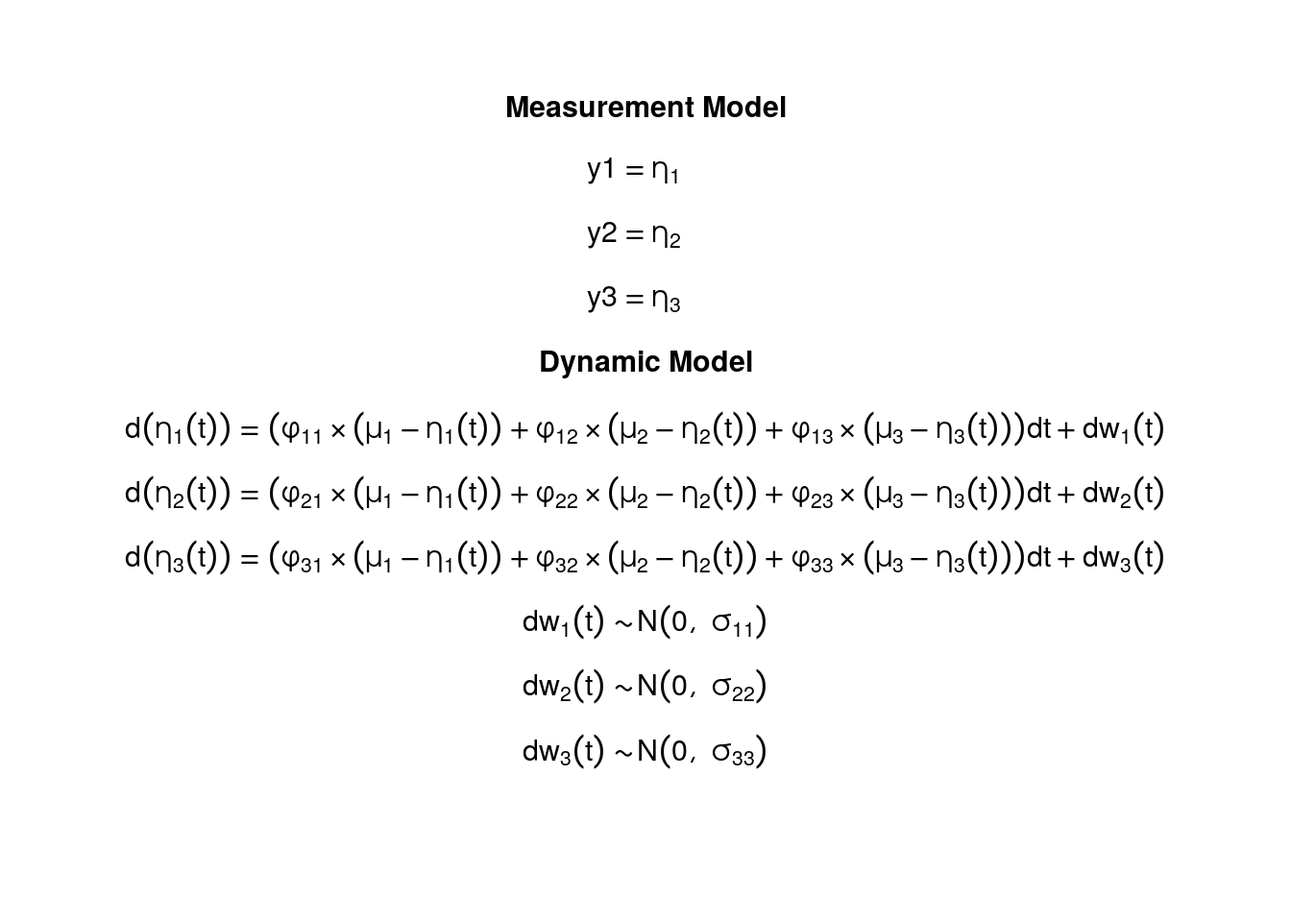
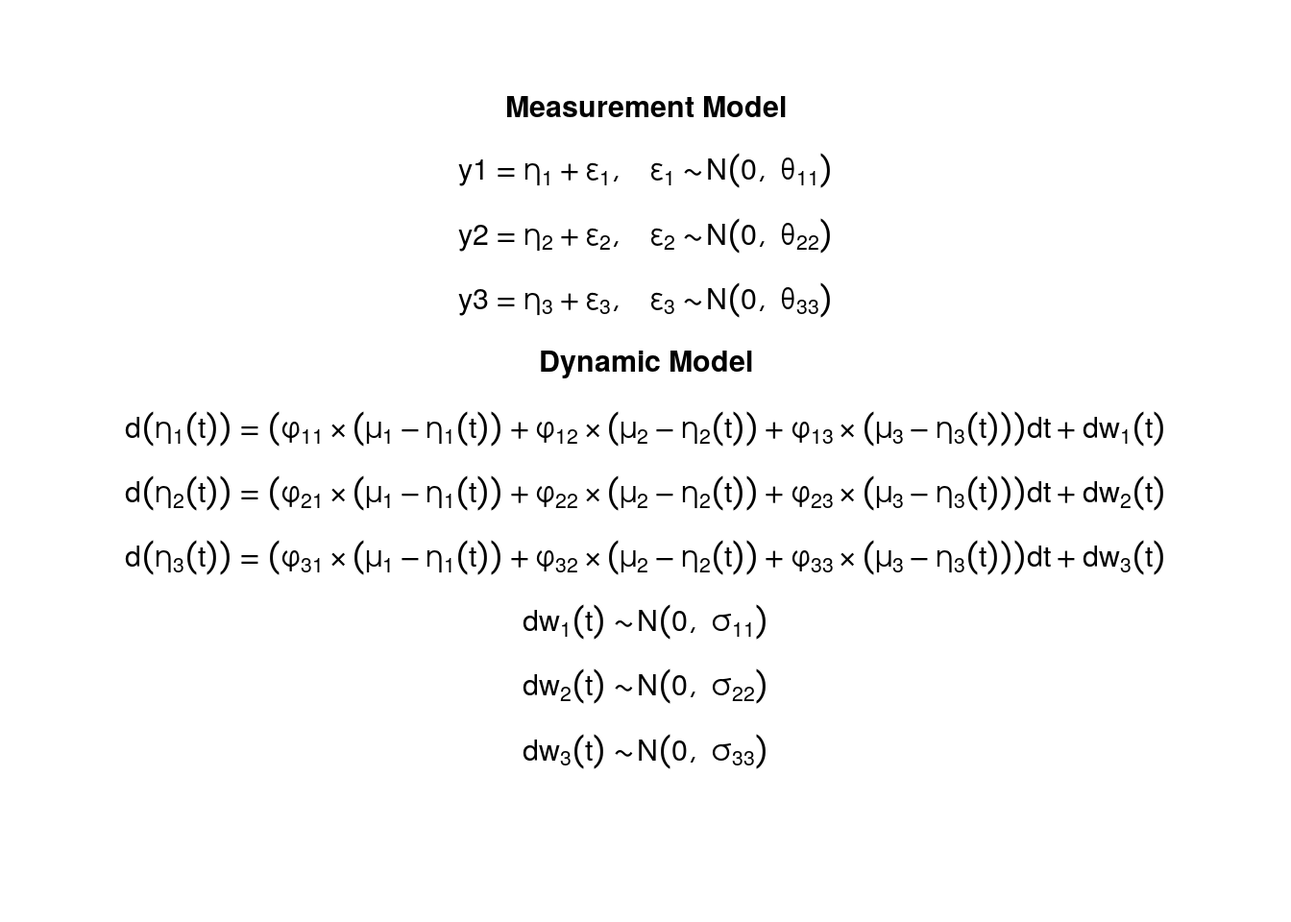
Deploying to quarto from @ jeksterslab/dynr-wiki@334fa9eb3922edf96c56c5e4832cf3fb31539dfa 🚀

diff --git a/.setup/quarto/examples/ou.html b/.setup/quarto/examples/ou.html
@@ -318,7 +318,7 @@ pre > code.sourceCode > span > a:first-child::before { text-decoration: underlin
   \mathrm{d}
   \mathbf{W}_{i, t}
 \end{equation}\]</span></p>
-<p>where is the long-term mean or equilibrium level, is the rate of mean reversion, determining how quickly the variable returns to its mean, is the matrix of volatility or randomness in the process, and is a Wiener process or Brownian motion, which represents random fluctuations.</p>
+<p>where <span class="math inline">\(\boldsymbol{\mu}\)</span> is the long-term mean or equilibrium level, <span class="math inline">\(\boldsymbol{\Phi}\)</span> is the rate of mean reversion, determining how quickly the variable returns to its mean, <span class="math inline">\(\boldsymbol{\Sigma}\)</span> is the matrix of volatility or randomness in the process, and <span class="math inline">\(\mathrm{d}\boldsymbol{W}\)</span> is a Wiener process or Brownian motion, which represents random fluctuations.</p>
 </section>
 <section id="data-generation" class="level2">
 <h2 class="anchored" data-anchor-id="data-generation">Data Generation</h2>
@@ -529,7 +529,7 @@ pre > code.sourceCode > span > a:first-child::before { text-decoration: underlin
 <h3 class="anchored" data-anchor-id="prepare-data">Prepare Data</h3>
 <div class="cell">
 <div class="sourceCode cell-code" id="cb26"><pre class="sourceCode r code-with-copy"><code class="sourceCode r"><span id="cb26-1"><a href="#cb26-1" aria-hidden="true" tabindex="-1"></a>dynr_data <span class="ot">&lt;-</span> dynr<span class="sc">::</span><span class="fu">dynr.data</span>(</span>
-<span id="cb26-2"><a href="#cb26-2" aria-hidden="true" tabindex="-1"></a>  <span class="at">data =</span> data,</span>
+<span id="cb26-2"><a href="#cb26-2" aria-hidden="true" tabindex="-1"></a>  <span class="at">dataframe =</span> data,</span>
 <span id="cb26-3"><a href="#cb26-3" aria-hidden="true" tabindex="-1"></a>  <span class="at">id =</span> <span class="st">"id"</span>,</span>
 <span id="cb26-4"><a href="#cb26-4" aria-hidden="true" tabindex="-1"></a>  <span class="at">time =</span> <span class="st">"time"</span>,</span>
 <span id="cb26-5"><a href="#cb26-5" aria-hidden="true" tabindex="-1"></a>  <span class="at">observed =</span> <span class="fu">c</span>(<span class="st">"y1"</span>, <span class="st">"y2"</span>, <span class="st">"y3"</span>)</span>
@@ -598,8 +598,15 @@ pre > code.sourceCode > span > a:first-child::before { text-decoration: underlin
 <span id="cb30-9"><a href="#cb30-9" aria-hidden="true" tabindex="-1"></a>    <span class="at">nrow =</span> <span class="dv">3</span></span>
 <span id="cb30-10"><a href="#cb30-10" aria-hidden="true" tabindex="-1"></a>  ),</span>
 <span id="cb30-11"><a href="#cb30-11" aria-hidden="true" tabindex="-1"></a>  <span class="at">values.observed =</span> <span class="fu">matrix</span>(<span class="at">data =</span> <span class="dv">0</span>, <span class="at">nrow =</span> <span class="dv">3</span>, <span class="at">ncol =</span> <span class="dv">3</span>),</span>
-<span id="cb30-12"><a href="#cb30-12" aria-hidden="true" tabindex="-1"></a>  <span class="at">params.observed =</span> <span class="fu">matrix</span>(<span class="at">data =</span> <span class="st">"fixed"</span>, <span class="at">nrow =</span> <span class="dv">3</span>, <span class="at">ncol =</span> <span class="dv">3</span>)</span>
-<span id="cb30-13"><a href="#cb30-13" aria-hidden="true" tabindex="-1"></a>)</span></code><button title="Copy to Clipboard" class="code-copy-button"><i class="bi"></i></button></pre></div>
+<span id="cb30-12"><a href="#cb30-12" aria-hidden="true" tabindex="-1"></a>  <span class="at">params.observed =</span> <span class="fu">matrix</span>(</span>
+<span id="cb30-13"><a href="#cb30-13" aria-hidden="true" tabindex="-1"></a>    <span class="at">data =</span> <span class="fu">c</span>(</span>
+<span id="cb30-14"><a href="#cb30-14" aria-hidden="true" tabindex="-1"></a>      <span class="st">"theta_11"</span>, <span class="st">"fixed"</span>, <span class="st">"fixed"</span>,</span>
+<span id="cb30-15"><a href="#cb30-15" aria-hidden="true" tabindex="-1"></a>      <span class="st">"fixed"</span>, <span class="st">"theta_22"</span>, <span class="st">"fixed"</span>,</span>
+<span id="cb30-16"><a href="#cb30-16" aria-hidden="true" tabindex="-1"></a>      <span class="st">"fixed"</span>, <span class="st">"fixed"</span>, <span class="st">"theta_33"</span></span>
+<span id="cb30-17"><a href="#cb30-17" aria-hidden="true" tabindex="-1"></a>    ),</span>
+<span id="cb30-18"><a href="#cb30-18" aria-hidden="true" tabindex="-1"></a>    <span class="at">nrow =</span> <span class="dv">3</span></span>
+<span id="cb30-19"><a href="#cb30-19" aria-hidden="true" tabindex="-1"></a>  )</span>
+<span id="cb30-20"><a href="#cb30-20" aria-hidden="true" tabindex="-1"></a>)</span></code><button title="Copy to Clipboard" class="code-copy-button"><i class="bi"></i></button></pre></div>
 </div>
 </section>
 <section id="prepare-the-model" class="level3">
@@ -643,141 +650,155 @@ Finished Hessian calculation.
 Original exit flag:  3 
 Modified exit flag:  3 
 Optimization terminated successfully: ftol_rel or ftol_abs was reached. 
-Original fitted parameters:  0.07403584 0.1766053 0.1539797 0.3697301 
-0.05704016 -0.0297579 -0.7256671 0.4783273 -0.01241398 0.4950523 -0.6934101 
-0.6879008 0.00734975 -0.01322196 -0.007848091 0.0117996 -0.009041597 
--0.01200113 2.691348e-05 0.01718063 0.4050353 -0.09542131 0.06062524 -0.3157057 
-0.4291277 -0.2853533 0.001404964 
+Original fitted parameters:  0.07406935 0.1766647 0.1540598 0.3697622 
+0.05704875 -0.02973953 -0.725679 0.4783426 -0.01241863 0.4950636 -0.6934217 
+0.6879196 0.007353297 -0.01321261 -0.007849696 0.01180588 -0.009041079 
+-0.01200767 -13.81608 -13.81762 -13.81537 -0.0001504583 0.0176176 0.4049574 
+-0.09485694 0.05996569 -0.3155364 0.4291837 -0.2852187 0.002375772 
 
-Transformed fitted parameters:  0.07403584 0.1766053 0.1539797 0.3697301 
-0.05704016 -0.0297579 -0.7256671 0.4783273 -0.01241398 0.4950523 -0.6934101 
-0.6879008 1.007377 -0.0133195 -0.007905985 1.012046 -0.009044383 0.9882154 
-2.691348e-05 0.01718063 0.4050353 0.9089899 0.05510773 -0.2869733 1.539258 
--0.4556769 1.217069 
+Transformed fitted parameters:  0.07406935 0.1766647 0.1540598 0.3697622 
+0.05704875 -0.02973953 -0.725679 0.4783426 -0.01241863 0.4950636 -0.6934217 
+0.6879196 1.00738 -0.01331013 -0.00790763 1.012052 -0.009043969 0.9882089 
+9.994307e-07 9.978914e-07 1.00014e-06 -0.0001504583 0.0176176 0.4049574 
+0.909503 0.05453898 -0.2869813 1.539274 -0.4553058 1.217885 
 
-Doing end processing
-Successful trial
-Total Time: 5.041503 
-Backend Time: 5.031405 </code></pre>
+Doing end processing</code></pre>
+</div>
+<div class="cell-output cell-output-stderr">
+<pre><code>Warning in sqrt(diag(iHess)): NaNs produced</code></pre>
+</div>
+<div class="cell-output cell-output-stderr">
+<pre><code>Warning in sqrt(diag(x$inv.hessian)): NaNs produced</code></pre>
+</div>
+<div class="cell-output cell-output-stderr">
+<pre><code>Warning: These parameters may have untrustworthy standard errors: theta_11,
+theta_22, theta_33.</code></pre>
+</div>
+<div class="cell-output cell-output-stdout">
+<pre><code>Total Time: 7.14561 
+Backend Time: 7.134597 </code></pre>
 </div>
 </div>
 <section id="summary" class="level4">
 <h4 class="anchored" data-anchor-id="summary">Summary</h4>
 <div class="cell">
-<div class="sourceCode cell-code" id="cb35"><pre class="sourceCode r code-with-copy"><code class="sourceCode r"><span id="cb35-1"><a href="#cb35-1" aria-hidden="true" tabindex="-1"></a><span class="fu">summary</span>(results)</span></code><button title="Copy to Clipboard" class="code-copy-button"><i class="bi"></i></button></pre></div>
+<div class="sourceCode cell-code" id="cb39"><pre class="sourceCode r code-with-copy"><code class="sourceCode r"><span id="cb39-1"><a href="#cb39-1" aria-hidden="true" tabindex="-1"></a><span class="fu">summary</span>(results)</span></code><button title="Copy to Clipboard" class="code-copy-button"><i class="bi"></i></button></pre></div>
 <div class="cell-output cell-output-stdout">
 <pre><code>Coefficients:
             Estimate Std. Error t value   ci.lower   ci.upper Pr(&gt;|t|)    
-mu_1       7.404e-02  1.042e-01   0.711 -1.302e-01  2.782e-01   0.2387    
-mu_2       1.766e-01  1.813e-01   0.974 -1.787e-01  5.319e-01   0.1650    
-mu_3       1.540e-01  1.432e-01   1.075 -1.268e-01  4.347e-01   0.1412    
-phi_11     3.697e-01  5.321e-02   6.948  2.654e-01  4.740e-01   &lt;2e-16 ***
-phi_12     5.704e-02  4.354e-02   1.310 -2.830e-02  1.424e-01   0.0951 .  
-phi_13    -2.976e-02  4.358e-02  -0.683 -1.152e-01  5.567e-02   0.2474    
-phi_21    -7.257e-01  5.334e-02 -13.605 -8.302e-01 -6.211e-01   &lt;2e-16 ***
-phi_22     4.783e-01  4.364e-02  10.961  3.928e-01  5.639e-01   &lt;2e-16 ***
-phi_23    -1.241e-02  4.369e-02  -0.284 -9.804e-02  7.321e-02   0.3882    
-phi_31     4.951e-01  5.274e-02   9.387  3.917e-01  5.984e-01   &lt;2e-16 ***
-phi_32    -6.934e-01  4.315e-02 -16.071 -7.780e-01 -6.088e-01   &lt;2e-16 ***
-phi_33     6.879e-01  4.319e-02  15.927  6.032e-01  7.726e-01   &lt;2e-16 ***
-sigma_11   1.007e+00  2.084e-02  48.350  9.665e-01  1.048e+00   &lt;2e-16 ***
-sigma_12  -1.332e-02  1.470e-02  -0.906 -4.214e-02  1.550e-02   0.1825    
-sigma_13  -7.906e-03  1.452e-02  -0.545 -3.636e-02  2.055e-02   0.2930    
+mu_1       7.407e-02  1.043e-01   0.710 -1.304e-01  2.785e-01   0.2388    
+mu_2       1.767e-01  1.815e-01   0.973 -1.791e-01  5.324e-01   0.1652    
+mu_3       1.541e-01  1.434e-01   1.074 -1.270e-01  4.351e-01   0.1414    
+phi_11     3.698e-01  5.318e-02   6.953  2.655e-01  4.740e-01   &lt;2e-16 ***
+phi_12     5.705e-02  4.352e-02   1.311 -2.825e-02  1.423e-01   0.0950 .  
+phi_13    -2.974e-02  4.357e-02  -0.682 -1.151e-01  5.567e-02   0.2475    
+phi_21    -7.257e-01  5.334e-02 -13.604 -8.302e-01 -6.211e-01   &lt;2e-16 ***
+phi_22     4.783e-01  4.364e-02  10.960  3.928e-01  5.639e-01   &lt;2e-16 ***
+phi_23    -1.242e-02  4.369e-02  -0.284 -9.806e-02  7.322e-02   0.3881    
+phi_31     4.951e-01  5.272e-02   9.390  3.917e-01  5.984e-01   &lt;2e-16 ***
+phi_32    -6.934e-01  4.314e-02 -16.075 -7.780e-01 -6.089e-01   &lt;2e-16 ***
+phi_33     6.879e-01  4.319e-02  15.928  6.033e-01  7.726e-01   &lt;2e-16 ***
+sigma_11   1.007e+00  2.083e-02  48.371  9.666e-01  1.048e+00   &lt;2e-16 ***
+sigma_12  -1.331e-02  1.470e-02  -0.905 -4.213e-02  1.551e-02   0.1827    
+sigma_13  -7.908e-03  1.452e-02  -0.545 -3.636e-02  2.055e-02   0.2930    
 sigma_22   1.012e+00  2.073e-02  48.828  9.714e-01  1.053e+00   &lt;2e-16 ***
-sigma_23  -9.044e-03  1.448e-02  -0.625 -3.743e-02  1.934e-02   0.2661    
-sigma_33   9.882e-01  2.022e-02  48.864  9.486e-01  1.028e+00   &lt;2e-16 ***
-mu0_1      2.691e-05  3.012e-01   0.000 -5.904e-01  5.905e-01   0.5000    
-mu0_2      1.718e-02  3.920e-01   0.044 -7.511e-01  7.855e-01   0.4825    
-mu0_3      4.050e-01  3.485e-01   1.162 -2.779e-01  1.088e+00   0.1226    
-sigma0_11  9.090e-01  4.064e-01   2.237  1.125e-01  1.706e+00   0.0127 *  
-sigma0_12  5.511e-02  3.746e-01   0.147 -6.790e-01  7.893e-01   0.4415    
-sigma0_13 -2.870e-01  3.446e-01  -0.833 -9.624e-01  3.885e-01   0.2025    
-sigma0_22  1.539e+00  6.880e-01   2.237  1.907e-01  2.888e+00   0.0127 *  
-sigma0_23 -4.557e-01  4.559e-01  -0.999 -1.349e+00  4.379e-01   0.1588    
-sigma0_33  1.217e+00  5.435e-01   2.239  1.518e-01  2.282e+00   0.0126 *  
+sigma_23  -9.044e-03  1.448e-02  -0.624 -3.743e-02  1.934e-02   0.2662    
+sigma_33   9.882e-01  2.022e-02  48.870  9.486e-01  1.028e+00   &lt;2e-16 ***
+theta_11   9.994e-07        NaN      NA        NaN        NaN       NA    
+theta_22   9.979e-07        NaN      NA        NaN        NaN       NA    
+theta_33   1.000e-06        NaN      NA        NaN        NaN       NA    
+mu0_1     -1.505e-04  3.014e-01   0.000 -5.909e-01  5.906e-01   0.4998    
+mu0_2      1.762e-02  3.921e-01   0.045 -7.508e-01  7.861e-01   0.4821    
+mu0_3      4.050e-01  3.487e-01   1.161 -2.784e-01  1.088e+00   0.1228    
+sigma0_11  9.095e-01  4.067e-01   2.236  1.123e-01  1.707e+00   0.0127 *  
+sigma0_12  5.454e-02  3.742e-01   0.146 -6.790e-01  7.880e-01   0.4421    
+sigma0_13 -2.870e-01  3.446e-01  -0.833 -9.623e-01  3.883e-01   0.2025    
+sigma0_22  1.539e+00  6.881e-01   2.237  1.906e-01  2.888e+00   0.0127 *  
+sigma0_23 -4.553e-01  4.564e-01  -0.998 -1.350e+00  4.392e-01   0.1593    
+sigma0_33  1.218e+00  5.443e-01   2.237  1.510e-01  2.285e+00   0.0127 *  
 ---
 Signif. codes:  0 '***' 0.001 '**' 0.01 '*' 0.05 '.' 0.1 ' ' 1
 
 -2 log-likelihood value at convergence = 7383.85
-AIC = 7437.85
-BIC = 7613.81</code></pre>
+AIC = 7443.85
+BIC = 7639.36</code></pre>
 </div>
 </div>
 <div class="cell">
 <div class="cell-output cell-output-stdout">
-<pre><code>[1] 2.691348e-05 1.718063e-02 4.050353e-01</code></pre>
+<pre><code>[1] -0.0001504583  0.0176175960  0.4049573835</code></pre>
 </div>
 </div>
 </section>
 <section id="estimated-coefficients" class="level4">
 <h4 class="anchored" data-anchor-id="estimated-coefficients">Estimated Coefficients</h4>
 <div class="cell">
-<div class="sourceCode cell-code" id="cb38"><pre class="sourceCode r code-with-copy"><code class="sourceCode r"><span id="cb38-1"><a href="#cb38-1" aria-hidden="true" tabindex="-1"></a>mu_hat</span></code><button title="Copy to Clipboard" class="code-copy-button"><i class="bi"></i></button></pre></div>
+<div class="sourceCode cell-code" id="cb42"><pre class="sourceCode r code-with-copy"><code class="sourceCode r"><span id="cb42-1"><a href="#cb42-1" aria-hidden="true" tabindex="-1"></a>mu_hat</span></code><button title="Copy to Clipboard" class="code-copy-button"><i class="bi"></i></button></pre></div>
 <div class="cell-output cell-output-stdout">
-<pre><code>[1] 0.07403584 0.17660528 0.15397965</code></pre>
+<pre><code>[1] 0.07406935 0.17666469 0.15405980</code></pre>
 </div>
-<div class="sourceCode cell-code" id="cb40"><pre class="sourceCode r code-with-copy"><code class="sourceCode r"><span id="cb40-1"><a href="#cb40-1" aria-hidden="true" tabindex="-1"></a>phi_hat</span></code><button title="Copy to Clipboard" class="code-copy-button"><i class="bi"></i></button></pre></div>
+<div class="sourceCode cell-code" id="cb44"><pre class="sourceCode r code-with-copy"><code class="sourceCode r"><span id="cb44-1"><a href="#cb44-1" aria-hidden="true" tabindex="-1"></a>phi_hat</span></code><button title="Copy to Clipboard" class="code-copy-button"><i class="bi"></i></button></pre></div>
 <div class="cell-output cell-output-stdout">
 <pre><code>           [,1]        [,2]        [,3]
-[1,]  0.3697301  0.05704016 -0.02975790
-[2,] -0.7256671  0.47832729 -0.01241398
-[3,]  0.4950523 -0.69341010  0.68790078</code></pre>
+[1,]  0.3697622  0.05704875 -0.02973953
+[2,] -0.7256790  0.47834259 -0.01241863
+[3,]  0.4950636 -0.69342171  0.68791962</code></pre>
 </div>
-<div class="sourceCode cell-code" id="cb42"><pre class="sourceCode r code-with-copy"><code class="sourceCode r"><span id="cb42-1"><a href="#cb42-1" aria-hidden="true" tabindex="-1"></a>sigma_hat</span></code><button title="Copy to Clipboard" class="code-copy-button"><i class="bi"></i></button></pre></div>
+<div class="sourceCode cell-code" id="cb46"><pre class="sourceCode r code-with-copy"><code class="sourceCode r"><span id="cb46-1"><a href="#cb46-1" aria-hidden="true" tabindex="-1"></a>sigma_hat</span></code><button title="Copy to Clipboard" class="code-copy-button"><i class="bi"></i></button></pre></div>
 <div class="cell-output cell-output-stdout">
-<pre><code>             [,1]         [,2]         [,3]
-[1,]  1.007376825 -0.013319498 -0.007905985
-[2,] -0.013319498  1.012045598 -0.009044383
-[3,] -0.007905985 -0.009044383  0.988215362</code></pre>
+<pre><code>            [,1]         [,2]         [,3]
+[1,]  1.00738040 -0.013310126 -0.007907630
+[2,] -0.01331013  1.012051708 -0.009043969
+[3,] -0.00790763 -0.009043969  0.988208917</code></pre>
 </div>
-<div class="sourceCode cell-code" id="cb44"><pre class="sourceCode r code-with-copy"><code class="sourceCode r"><span id="cb44-1"><a href="#cb44-1" aria-hidden="true" tabindex="-1"></a>mu0_hat</span></code><button title="Copy to Clipboard" class="code-copy-button"><i class="bi"></i></button></pre></div>
+<div class="sourceCode cell-code" id="cb48"><pre class="sourceCode r code-with-copy"><code class="sourceCode r"><span id="cb48-1"><a href="#cb48-1" aria-hidden="true" tabindex="-1"></a>mu0_hat</span></code><button title="Copy to Clipboard" class="code-copy-button"><i class="bi"></i></button></pre></div>
 <div class="cell-output cell-output-stdout">
-<pre><code>[1] 2.691348e-05 1.718063e-02 4.050353e-01</code></pre>
+<pre><code>[1] -0.0001504583  0.0176175960  0.4049573835</code></pre>
 </div>
-<div class="sourceCode cell-code" id="cb46"><pre class="sourceCode r code-with-copy"><code class="sourceCode r"><span id="cb46-1"><a href="#cb46-1" aria-hidden="true" tabindex="-1"></a>sigma0_hat</span></code><button title="Copy to Clipboard" class="code-copy-button"><i class="bi"></i></button></pre></div>
+<div class="sourceCode cell-code" id="cb50"><pre class="sourceCode r code-with-copy"><code class="sourceCode r"><span id="cb50-1"><a href="#cb50-1" aria-hidden="true" tabindex="-1"></a>sigma0_hat</span></code><button title="Copy to Clipboard" class="code-copy-button"><i class="bi"></i></button></pre></div>
 <div class="cell-output cell-output-stdout">
 <pre><code>            [,1]        [,2]       [,3]
-[1,]  0.90898988  0.05510773 -0.2869733
-[2,]  0.05510773  1.53925805 -0.4556769
-[3,] -0.28697332 -0.45567686  1.2170694</code></pre>
+[1,]  0.90950304  0.05453898 -0.2869813
+[2,]  0.05453898  1.53927361 -0.4553058
+[3,] -0.28698132 -0.45530579  1.2178850</code></pre>
 </div>
-<div class="sourceCode cell-code" id="cb48"><pre class="sourceCode r code-with-copy"><code class="sourceCode r"><span id="cb48-1"><a href="#cb48-1" aria-hidden="true" tabindex="-1"></a>beta_var1_hat <span class="ot">&lt;-</span> <span class="fu">as.matrix</span>(</span>
-<span id="cb48-2"><a href="#cb48-2" aria-hidden="true" tabindex="-1"></a>  Matrix<span class="sc">::</span><span class="fu">expm</span>(<span class="sc">-</span><span class="dv">1</span> <span class="sc">*</span> phi_hat)</span>
-<span id="cb48-3"><a href="#cb48-3" aria-hidden="true" tabindex="-1"></a>)</span>
-<span id="cb48-4"><a href="#cb48-4" aria-hidden="true" tabindex="-1"></a>beta_var1_hat</span></code><button title="Copy to Clipboard" class="code-copy-button"><i class="bi"></i></button></pre></div>
+<div class="sourceCode cell-code" id="cb52"><pre class="sourceCode r code-with-copy"><code class="sourceCode r"><span id="cb52-1"><a href="#cb52-1" aria-hidden="true" tabindex="-1"></a>beta_var1_hat <span class="ot">&lt;-</span> <span class="fu">as.matrix</span>(</span>
+<span id="cb52-2"><a href="#cb52-2" aria-hidden="true" tabindex="-1"></a>  Matrix<span class="sc">::</span><span class="fu">expm</span>(<span class="sc">-</span><span class="dv">1</span> <span class="sc">*</span> phi_hat)</span>
+<span id="cb52-3"><a href="#cb52-3" aria-hidden="true" tabindex="-1"></a>)</span>
+<span id="cb52-4"><a href="#cb52-4" aria-hidden="true" tabindex="-1"></a>beta_var1_hat</span></code><button title="Copy to Clipboard" class="code-copy-button"><i class="bi"></i></button></pre></div>
 <div class="cell-output cell-output-stdout">
 <pre><code>           [,1]        [,2]       [,3]
-[1,]  0.6741886 -0.03090098 0.01726396
-[2,]  0.4698159  0.61058693 0.01334698
-[3,] -0.1401986  0.39313634 0.50229560</code></pre>
+[1,]  0.6741664 -0.03090954 0.01725262
+[2,]  0.4698119  0.61057555 0.01334542
+[3,] -0.1401962  0.39313771 0.50228869</code></pre>
 </div>
 </div>
 </section>
 <section id="discrepancy-between-estimated-and-population-coefficients" class="level4">
 <h4 class="anchored" data-anchor-id="discrepancy-between-estimated-and-population-coefficients">Discrepancy Between Estimated and Population Coefficients</h4>
 <div class="cell">
-<div class="sourceCode cell-code" id="cb50"><pre class="sourceCode r code-with-copy"><code class="sourceCode r"><span id="cb50-1"><a href="#cb50-1" aria-hidden="true" tabindex="-1"></a>tol <span class="ot">&lt;-</span> <span class="fl">0.10</span></span>
-<span id="cb50-2"><a href="#cb50-2" aria-hidden="true" tabindex="-1"></a><span class="fu">all</span>(</span>
-<span id="cb50-3"><a href="#cb50-3" aria-hidden="true" tabindex="-1"></a>  <span class="fu">as.vector</span>(</span>
-<span id="cb50-4"><a href="#cb50-4" aria-hidden="true" tabindex="-1"></a>    <span class="fu">abs</span>(mu <span class="sc">-</span> mu_hat)</span>
-<span id="cb50-5"><a href="#cb50-5" aria-hidden="true" tabindex="-1"></a>  ) <span class="sc">&lt;=</span> tol</span>
-<span id="cb50-6"><a href="#cb50-6" aria-hidden="true" tabindex="-1"></a>)</span></code><button title="Copy to Clipboard" class="code-copy-button"><i class="bi"></i></button></pre></div>
+<div class="sourceCode cell-code" id="cb54"><pre class="sourceCode r code-with-copy"><code class="sourceCode r"><span id="cb54-1"><a href="#cb54-1" aria-hidden="true" tabindex="-1"></a>tol <span class="ot">&lt;-</span> <span class="fl">0.10</span></span>
+<span id="cb54-2"><a href="#cb54-2" aria-hidden="true" tabindex="-1"></a><span class="fu">all</span>(</span>
+<span id="cb54-3"><a href="#cb54-3" aria-hidden="true" tabindex="-1"></a>  <span class="fu">as.vector</span>(</span>
+<span id="cb54-4"><a href="#cb54-4" aria-hidden="true" tabindex="-1"></a>    <span class="fu">abs</span>(mu <span class="sc">-</span> mu_hat)</span>
+<span id="cb54-5"><a href="#cb54-5" aria-hidden="true" tabindex="-1"></a>  ) <span class="sc">&lt;=</span> tol</span>
+<span id="cb54-6"><a href="#cb54-6" aria-hidden="true" tabindex="-1"></a>)</span></code><button title="Copy to Clipboard" class="code-copy-button"><i class="bi"></i></button></pre></div>
 <div class="cell-output cell-output-stdout">
 <pre><code>[1] FALSE</code></pre>
 </div>
-<div class="sourceCode cell-code" id="cb52"><pre class="sourceCode r code-with-copy"><code class="sourceCode r"><span id="cb52-1"><a href="#cb52-1" aria-hidden="true" tabindex="-1"></a><span class="fu">all</span>(</span>
-<span id="cb52-2"><a href="#cb52-2" aria-hidden="true" tabindex="-1"></a>  <span class="fu">as.vector</span>(</span>
-<span id="cb52-3"><a href="#cb52-3" aria-hidden="true" tabindex="-1"></a>    <span class="fu">abs</span>(phi <span class="sc">-</span> phi_hat)</span>
-<span id="cb52-4"><a href="#cb52-4" aria-hidden="true" tabindex="-1"></a>  ) <span class="sc">&lt;=</span> tol</span>
-<span id="cb52-5"><a href="#cb52-5" aria-hidden="true" tabindex="-1"></a>)</span></code><button title="Copy to Clipboard" class="code-copy-button"><i class="bi"></i></button></pre></div>
+<div class="sourceCode cell-code" id="cb56"><pre class="sourceCode r code-with-copy"><code class="sourceCode r"><span id="cb56-1"><a href="#cb56-1" aria-hidden="true" tabindex="-1"></a><span class="fu">all</span>(</span>
+<span id="cb56-2"><a href="#cb56-2" aria-hidden="true" tabindex="-1"></a>  <span class="fu">as.vector</span>(</span>
+<span id="cb56-3"><a href="#cb56-3" aria-hidden="true" tabindex="-1"></a>    <span class="fu">abs</span>(phi <span class="sc">-</span> phi_hat)</span>
+<span id="cb56-4"><a href="#cb56-4" aria-hidden="true" tabindex="-1"></a>  ) <span class="sc">&lt;=</span> tol</span>
+<span id="cb56-5"><a href="#cb56-5" aria-hidden="true" tabindex="-1"></a>)</span></code><button title="Copy to Clipboard" class="code-copy-button"><i class="bi"></i></button></pre></div>
 <div class="cell-output cell-output-stdout">
 <pre><code>[1] TRUE</code></pre>
 </div>
-<div class="sourceCode cell-code" id="cb54"><pre class="sourceCode r code-with-copy"><code class="sourceCode r"><span id="cb54-1"><a href="#cb54-1" aria-hidden="true" tabindex="-1"></a><span class="fu">all</span>(</span>
-<span id="cb54-2"><a href="#cb54-2" aria-hidden="true" tabindex="-1"></a>  <span class="fu">as.vector</span>(</span>
-<span id="cb54-3"><a href="#cb54-3" aria-hidden="true" tabindex="-1"></a>    <span class="fu">abs</span>(beta_var1 <span class="sc">-</span> beta_var1_hat)</span>
-<span id="cb54-4"><a href="#cb54-4" aria-hidden="true" tabindex="-1"></a>  ) <span class="sc">&lt;=</span> tol</span>
-<span id="cb54-5"><a href="#cb54-5" aria-hidden="true" tabindex="-1"></a>)</span></code><button title="Copy to Clipboard" class="code-copy-button"><i class="bi"></i></button></pre></div>
+<div class="sourceCode cell-code" id="cb58"><pre class="sourceCode r code-with-copy"><code class="sourceCode r"><span id="cb58-1"><a href="#cb58-1" aria-hidden="true" tabindex="-1"></a><span class="fu">all</span>(</span>
+<span id="cb58-2"><a href="#cb58-2" aria-hidden="true" tabindex="-1"></a>  <span class="fu">as.vector</span>(</span>
+<span id="cb58-3"><a href="#cb58-3" aria-hidden="true" tabindex="-1"></a>    <span class="fu">abs</span>(beta_var1 <span class="sc">-</span> beta_var1_hat)</span>
+<span id="cb58-4"><a href="#cb58-4" aria-hidden="true" tabindex="-1"></a>  ) <span class="sc">&lt;=</span> tol</span>
+<span id="cb58-5"><a href="#cb58-5" aria-hidden="true" tabindex="-1"></a>)</span></code><button title="Copy to Clipboard" class="code-copy-button"><i class="bi"></i></button></pre></div>
 <div class="cell-output cell-output-stdout">
 <pre><code>[1] TRUE</code></pre>
 </div>
@@ -788,23 +809,23 @@ BIC = 7613.81</code></pre>
 <section id="monte-carlo-confidence-interval-for-functions-of-parameters" class="level2">
 <h2 class="anchored" data-anchor-id="monte-carlo-confidence-interval-for-functions-of-parameters">Monte Carlo Confidence Interval for Functions of Parameters</h2>
 <div class="cell">
-<div class="sourceCode cell-code" id="cb56"><pre class="sourceCode r code-with-copy"><code class="sourceCode r"><span id="cb56-1"><a href="#cb56-1" aria-hidden="true" tabindex="-1"></a><span class="cf">if</span> (<span class="sc">!</span><span class="fu">require</span>(<span class="st">"remotes"</span>)) <span class="fu">install.packages</span>(<span class="st">"remotes"</span>)</span>
-<span id="cb56-2"><a href="#cb56-2" aria-hidden="true" tabindex="-1"></a>remotes<span class="sc">::</span><span class="fu">install_github</span>(<span class="st">"jeksterslab/semmcci"</span>)</span></code><button title="Copy to Clipboard" class="code-copy-button"><i class="bi"></i></button></pre></div>
+<div class="sourceCode cell-code" id="cb60"><pre class="sourceCode r code-with-copy"><code class="sourceCode r"><span id="cb60-1"><a href="#cb60-1" aria-hidden="true" tabindex="-1"></a><span class="cf">if</span> (<span class="sc">!</span><span class="fu">require</span>(<span class="st">"remotes"</span>)) <span class="fu">install.packages</span>(<span class="st">"remotes"</span>)</span>
+<span id="cb60-2"><a href="#cb60-2" aria-hidden="true" tabindex="-1"></a>remotes<span class="sc">::</span><span class="fu">install_github</span>(<span class="st">"jeksterslab/semmcci"</span>)</span></code><button title="Copy to Clipboard" class="code-copy-button"><i class="bi"></i></button></pre></div>
 </div>
 <div class="cell">
-<div class="sourceCode cell-code" id="cb57"><pre class="sourceCode r code-with-copy"><code class="sourceCode r"><span id="cb57-1"><a href="#cb57-1" aria-hidden="true" tabindex="-1"></a>semmcci<span class="sc">::</span><span class="fu">MCGeneric</span>(</span>
-<span id="cb57-2"><a href="#cb57-2" aria-hidden="true" tabindex="-1"></a>  <span class="at">object =</span> results,</span>
-<span id="cb57-3"><a href="#cb57-3" aria-hidden="true" tabindex="-1"></a>  <span class="at">R =</span> 20000L,</span>
-<span id="cb57-4"><a href="#cb57-4" aria-hidden="true" tabindex="-1"></a>  <span class="at">def =</span> <span class="fu">list</span>(</span>
-<span id="cb57-5"><a href="#cb57-5" aria-hidden="true" tabindex="-1"></a>    <span class="st">"phi_21 * phi_32"</span>, <span class="co"># indirect effect</span></span>
-<span id="cb57-6"><a href="#cb57-6" aria-hidden="true" tabindex="-1"></a>    <span class="st">"phi_21 * phi_32 + phi_31"</span> <span class="co"># total effect</span></span>
-<span id="cb57-7"><a href="#cb57-7" aria-hidden="true" tabindex="-1"></a>  ),</span>
-<span id="cb57-8"><a href="#cb57-8" aria-hidden="true" tabindex="-1"></a>  <span class="at">alpha =</span> <span class="fl">0.05</span></span>
-<span id="cb57-9"><a href="#cb57-9" aria-hidden="true" tabindex="-1"></a>)</span></code><button title="Copy to Clipboard" class="code-copy-button"><i class="bi"></i></button></pre></div>
+<div class="sourceCode cell-code" id="cb61"><pre class="sourceCode r code-with-copy"><code class="sourceCode r"><span id="cb61-1"><a href="#cb61-1" aria-hidden="true" tabindex="-1"></a>semmcci<span class="sc">::</span><span class="fu">MCGeneric</span>(</span>
+<span id="cb61-2"><a href="#cb61-2" aria-hidden="true" tabindex="-1"></a>  <span class="at">object =</span> results,</span>
+<span id="cb61-3"><a href="#cb61-3" aria-hidden="true" tabindex="-1"></a>  <span class="at">R =</span> 20000L,</span>
+<span id="cb61-4"><a href="#cb61-4" aria-hidden="true" tabindex="-1"></a>  <span class="at">def =</span> <span class="fu">list</span>(</span>
+<span id="cb61-5"><a href="#cb61-5" aria-hidden="true" tabindex="-1"></a>    <span class="st">"phi_21 * phi_32"</span>, <span class="co"># indirect effect</span></span>
+<span id="cb61-6"><a href="#cb61-6" aria-hidden="true" tabindex="-1"></a>    <span class="st">"phi_21 * phi_32 + phi_31"</span> <span class="co"># total effect</span></span>
+<span id="cb61-7"><a href="#cb61-7" aria-hidden="true" tabindex="-1"></a>  ),</span>
+<span id="cb61-8"><a href="#cb61-8" aria-hidden="true" tabindex="-1"></a>  <span class="at">alpha =</span> <span class="fl">0.05</span></span>
+<span id="cb61-9"><a href="#cb61-9" aria-hidden="true" tabindex="-1"></a>)</span></code><button title="Copy to Clipboard" class="code-copy-button"><i class="bi"></i></button></pre></div>
 <div class="cell-output cell-output-stdout">
 <pre><code>                            est     se     R   2.5%  97.5%
-phi_21 * phi_32          0.5032 0.0484 20000 0.4115 0.6011
-phi_21 * phi_32 + phi_31 0.9982 0.0855 20000 0.8328 1.1675</code></pre>
+phi_21 * phi_32          0.5032 0.0484 20000 0.4115 0.6012
+phi_21 * phi_32 + phi_31 0.9983 0.0855 20000 0.8328 1.1674</code></pre>
 </div>
 </div>
 

diff --git a/.setup/quarto/examples/var.html b/.setup/quarto/examples/var.html
@@ -582,8 +582,8 @@ Transformed fitted parameters:  -0.01496695 -0.008388628 0.007902923 0.6906446
 
 Doing end processing
 Successful trial
-Total Time: 3.399811 
-Backend Time: 3.390133 </code></pre>
+Total Time: 4.101473 
+Backend Time: 4.090921 </code></pre>
 </div>
 </div>
 <section id="summary" class="level4">
